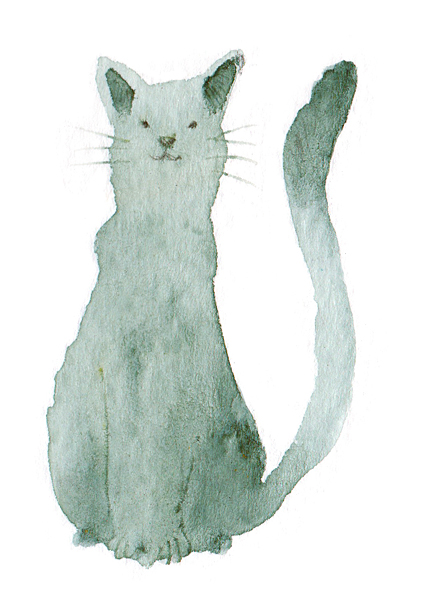
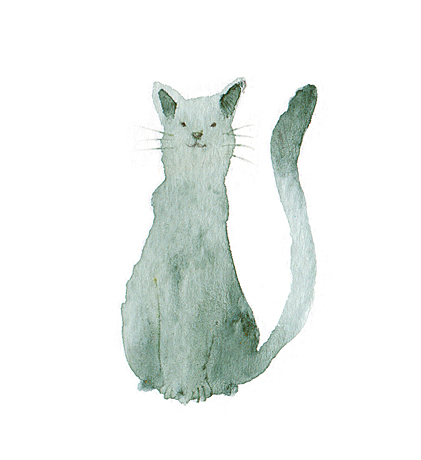
modif portfolio

diff --git a/themes/somrat/assets/css/custom.css b/themes/somrat/assets/css/custom.css
@@ -1,7 +1,9 @@
 .preloader {
   background-color: #99999A;
 }
-
+.sticky-top{
+  z-index: 997;
+}
 /*--------------------------------
    banner
 ----------------------------------*/
@@ -55,7 +57,8 @@ input:checked+label span {
   padding: 0;
 }
 .content p img {
-  width: 100%!important;
+  max-width: 100%;
+  max-height: 900px;
 }
 .item-caption h2 {
   font-size: 20px;
@@ -65,18 +68,23 @@ input:checked+label span {
  .item-caption p {
   display: none;
 }
+.filtr-item:hover .item-holder img {
+  -webkit-transform: translateX(0px);
+  transform: translateX(0px);
+}
 
 @media (hover: hover) {
+ .item-caption {
+background: linear-gradient(to right, rgba(50,50,50, .9), rgba(50,50,50, .2) 90%, rgba(50,50,50, .1));
+-webkit-transition: all 0.3s ease-out;
+transition: all 0.3s ease-out;
+}
  .item-caption .nonhover-icon {
   padding-left: 13px;
   font-size: 26px;
 }
 }
 @media (hover: none) {
-.filtr-item:hover .item-holder img {
-  -webkit-transform: translateX(0px);
-  transform: translateX(0px);
-}
 .item-caption {
   height: 50px;
   width: 50px;

diff --git a/themes/somrat/assets/js/script.js b/themes/somrat/assets/js/script.js
@@ -224,7 +224,7 @@
 	/*--------------------------------
 			 Start Portfolio
 	----------------------------------*/
-	// Shuffle js filter 
+	// Shuffle js filter
 	var containerEl = document.querySelector('.filtr-wrapper');
 	if (containerEl) {
 		var Shuffle = window.Shuffle;
@@ -279,7 +279,7 @@
 	// Code for Opera Mini
 	var vh = $(window).height();
 	if (navigator.userAgent.indexOf('Opera Mini') != -1) {
-		// Setting Fun Facts Value Immediately 
+		// Setting Fun Facts Value Immediately
 		work.start();
 		happyClient.start();
 		projects.start();
@@ -309,7 +309,7 @@
 			"display": "table",
 			"margin": "auto"
 		});
-		// Setting Fun Facts Value Immediately 
+		// Setting Fun Facts Value Immediately
 		work.start();
 		happyClient.start();
 		projects.start();

diff --git a/layouts/portfolio/list.html b/layouts/portfolio/list.html
@@ -36,10 +36,10 @@
               </a>
               <div class="item-caption">
                 <h2 class="mt-2"><a class="text-white" href="{{.Permalink}}">{{ .Title | markdownify }}</a></h2>
-                {{ range .Params.categories }}
+<!--                {{ range .Params.categories }}
                 <p class="mb-0 text-light">{{ . | title }}</p>
                 {{ end }}
-                <div class="item-created text-light">{{ .PublishDate.Format "02 Jan, 06" }}</div>
+               <div class="item-created text-light">{{ .PublishDate.Format "02 Jan, 06" }}</div> -->
               </div>
             </div>
           </div>

diff --git a/layouts/index.html b/layouts/index.html
@@ -316,10 +316,10 @@
                   <h2 class="mt-2">{{ .Title | markdownify }}</h2>
                   <i class="nonhover-icon fas fa-search-plus"></i>
                 </a>
-                {{ range .Params.categories }}
+<!--                {{ range .Params.categories }}
                 <p class="mb-0 text-light">{{ . | title }}</p>
                 {{ end }}
-                <div class="item-created text-light">{{ .PublishDate.Format "02 Jan, 06" }}</div>
+                <div class="item-created text-light">{{ .PublishDate.Format "02 Jan, 06" }}</div> -->
               </div>
             </div>
           </div>

diff --git a/layouts/portfolio/single.html b/layouts/portfolio/single.html
@@ -20,7 +20,7 @@
               <i class="mt-1 fas fa-calendar h2"></i>
                <div class="ml-3">
                  <h4>Date</h4>
-                 <div class="content">{{.PublishDate.Format "02 Jan, 2006"}}</div>
+                 <div class="content">{{.PublishDate.Format "Jan, 2006"}}</div>
                </div>
              </li>
              <li class="media mb-4">

diff --git a/content/english/portfolio/project-9-pamplemouse.md b/content/english/portfolio/project-9-pamplemouse.md
@@ -1,22 +1,22 @@
 ---
 title: "Pamplemousse"
-date: 2021-11-12T12:14:34+06:00
-image: "images/portfolio/pamplemousse-1.jpg"
+date: 2016-11-12T12:14:34+06:00
+image: "images/portfolio/pamplemousse-2.jpg"
 categories: ["Illustration"]
 description: "This is meta description."
 draft: false
 project_info:
 - name: "Format"
-  icon: "fas fa-globe"
+  icon: "fas fa-ruler-combined"
   content: "50cm x 40cm"
 - name: "Support"
-  icon: "fas fa-globe"
+  icon: "fas fa-paint-brush"
   content: "Watercolor on Paper"
 ---
 
 Children book. Auto-edition. Project of my friend.
 
-![heller](/images/portfolio/pamplemousse-2.jpg)
+![heller](/images/portfolio/pamplemousse-1.jpg)
 
 ![heller](/images/portfolio/pamplemousse-3.jpg)
 

diff --git a/content/english/portfolio/project-1-ctc.md b/content/english/portfolio/project-1-ctc.md
@@ -1,5 +1,5 @@
 ---
-title: "Works for CTC"
+title: "CTC"
 date: 2021-05-12T12:14:34+06:00
 image: "images/portfolio/ctc-1.jpg"
 categories: ["Illustration"]
@@ -7,15 +7,15 @@ description: "This is meta description."
 draft: false
 project_info:
 - name: "Format"
-  icon: "fas fa-globe"
+  icon: "fas fa-ruler-combined"
   content: "50cm x 40cm"
 - name: "Support"
-  icon: "fas fa-globe"
+  icon: "fas fa-paint-brush"
   content: "Watercolor on Paper"
 ---
 
-![heller](/images/portfolio/ctc-2.jpg)
+![ctc](/images/portfolio/ctc-2.jpg)
 
-![heller](/images/portfolio/ctc-3.jpg)
+![ctc](/images/portfolio/ctc-3.jpg)
 
-![heller](/images/portfolio/ctc-4.jpg)
+![ctc](/images/portfolio/ctc-4.jpg)

diff --git a/content/english/portfolio/project-12-tableaux.md b/content/english/portfolio/project-12-tableaux.md
@@ -7,11 +7,23 @@ description: "This is meta description."
 draft: false
 project_info:
 - name: "Format"
-  icon: "fas fa-globe"
+  icon: "fas fa-ruler-combined"
   content: "50cm x 40cm"
 - name: "Support"
-  icon: "fas fa-globe"
+  icon: "fas fa-paint-brush"
   content: "Watercolor on Paper"
+project_images:
+- "images/portfolio/tableaux-2.jpg"
+- "images/portfolio/tableaux-3.jpg"
+- "images/portfolio/tableaux-4.jpg"
 ---
 
 ![heller](/images/portfolio/tableaux-2.jpg)
+
+![heller](/images/portfolio/tableaux-3.jpg)
+
+![heller](/images/portfolio/tableaux-4.jpg)
+
+![heller](/images/portfolio/tableaux-5.jpg)
+
+![heller](/images/portfolio/tableaux-6.jpg)

diff --git a/content/english/portfolio/project-10-zombie.md b/content/english/portfolio/project-10-zombie.md
@@ -1,16 +1,16 @@
 ---
 title: "Zombie"
-date: 2021-11-12T12:14:34+06:00
+date: 2014-11-12T12:14:34+06:00
 image: "images/portfolio/zombie-1.jpg"
 categories: ["Digital"]
 description: "This is meta description."
 draft: false
 project_info:
-- name: "Format"
-  icon: "fas fa-globe"
-  content: "50cm x 40cm"
+#- name: "Format"
+#  icon: "fas fa-ruler-combined"
+#  content: "50cm x 40cm"
 - name: "Support"
-  icon: "fas fa-globe"
-  content: "Watercolor on Paper"
+  icon: "fas fa-paint-brush"
+  content: "Digital"
 ---
 ![heller](/images/portfolio/zombie-2.jpg)

diff --git a/content/english/portfolio/project-3-lionnoir.md b/content/english/portfolio/project-3-lionnoir.md
@@ -1,17 +1,17 @@
 ---
 title: "Looking for a Black Lion"
-date: 2020-04-12T12:14:34+06:00
+date: 2019-04-12T12:14:34+06:00
 image: "images/backgrounds/full-nav-bg.jpg"
 categories: ["Tableau"]
 description: "This is meta description."
 draft: false
 project_info:
 - name: "Format"
-  icon: "fas fa-globe"
+  icon: "fas fa-ruler-combined"
   content: "50cm x 40cm"
 - name: "Support"
-  icon: "fas fa-globe"
-  content: "Watercolor on Paper"
+  icon: "fas fa-paint-brush"
+  content: "Watercolor on paper"
 ---
 
 ##### « À la recherche d'un lion noir »

diff --git a/content/english/portfolio/project-4-rossignol.md b/content/english/portfolio/project-4-rossignol.md
@@ -1,17 +1,17 @@
 ---
 title: "Rossignol"
-date: 2020-05-12T12:14:34+06:00
+date: 2013-05-12T12:14:34+06:00
 image: "images/portfolio/rossignol-1.jpg"
 categories: ["Illustration"]
 description: "This is meta description."
 draft: false
 project_info:
 - name: "Format"
-  icon: "fas fa-globe"
+  icon: "fas fa-ruler-combined"
   content: "50cm x 40cm"
 - name: "Support"
-  icon: "fas fa-globe"
-  content: "Watercolor on Paper"
+  icon: "fas fa-paint-brush"
+  content: "Watercolor on Paper, Pen"
 ---
 
 ![heller](/images/portfolio/rossignol-2.jpg)

diff --git a/content/english/portfolio/project-5-my.md b/content/english/portfolio/project-5-my.md
@@ -1,17 +1,17 @@
 ---
 title: "Design for Patisserie Masaki YAMAMOTO"
-date: 2020-05-12T12:14:34+06:00
+date: 2021-05-12T12:14:34+06:00
 image: "images/portfolio/my-1.jpg"
 categories: ["Design"]
 description: "This is meta description."
 draft: false
 project_info:
 - name: "Format"
-  icon: "fas fa-globe"
+  icon: "fas fa-ruler-combined"
   content: "50cm x 40cm"
 - name: "Support"
-  icon: "fas fa-globe"
-  content: "Watercolor on Paper"
+  icon: "fas fa-paint-brush"
+  content: "Digital"
 ---
 
 ![heller](/images/portfolio/my-2.jpg)
